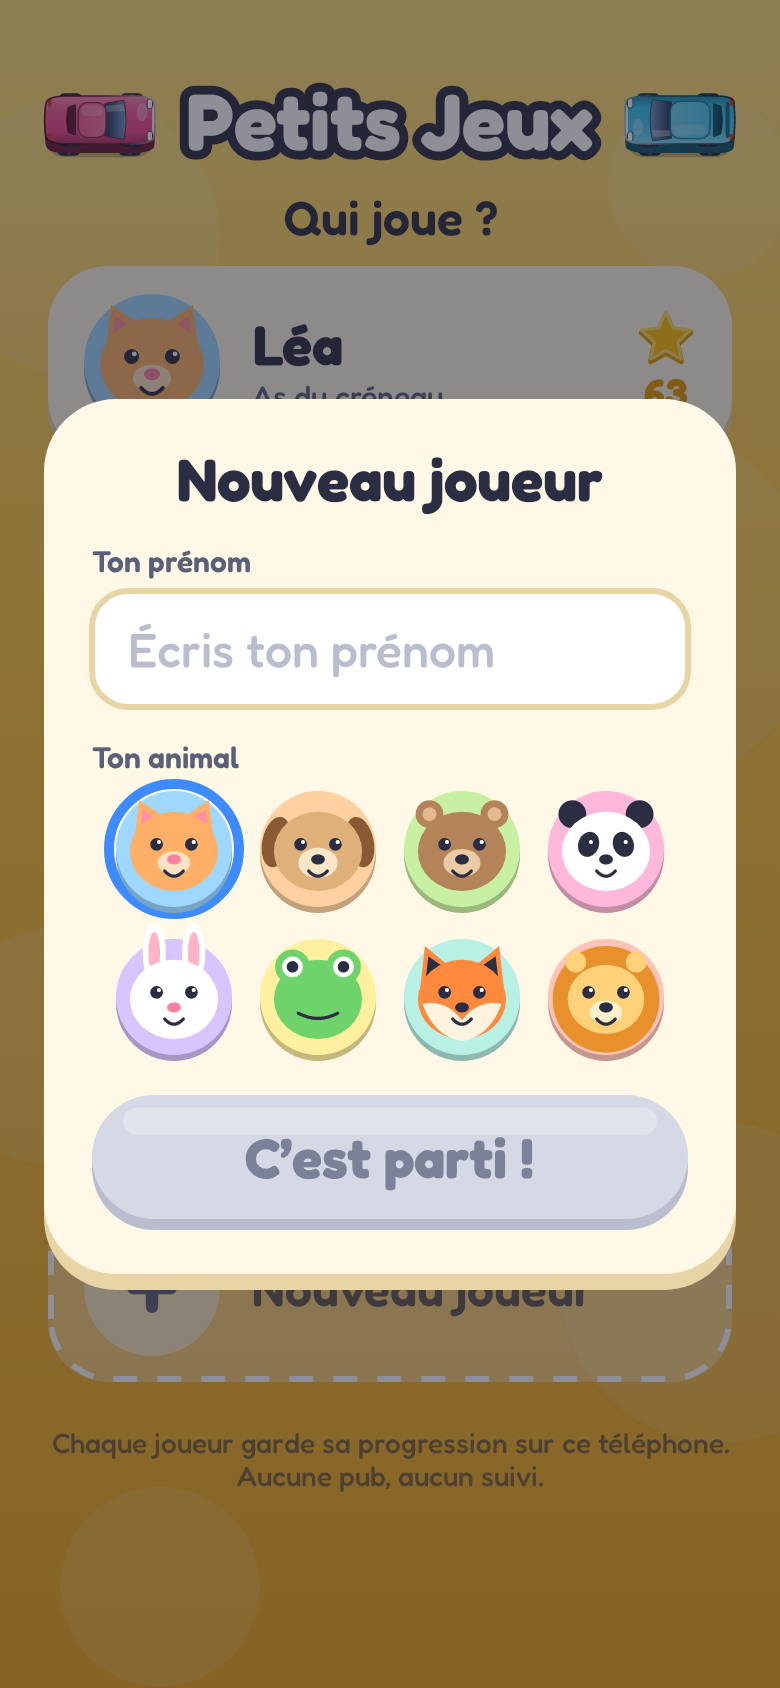
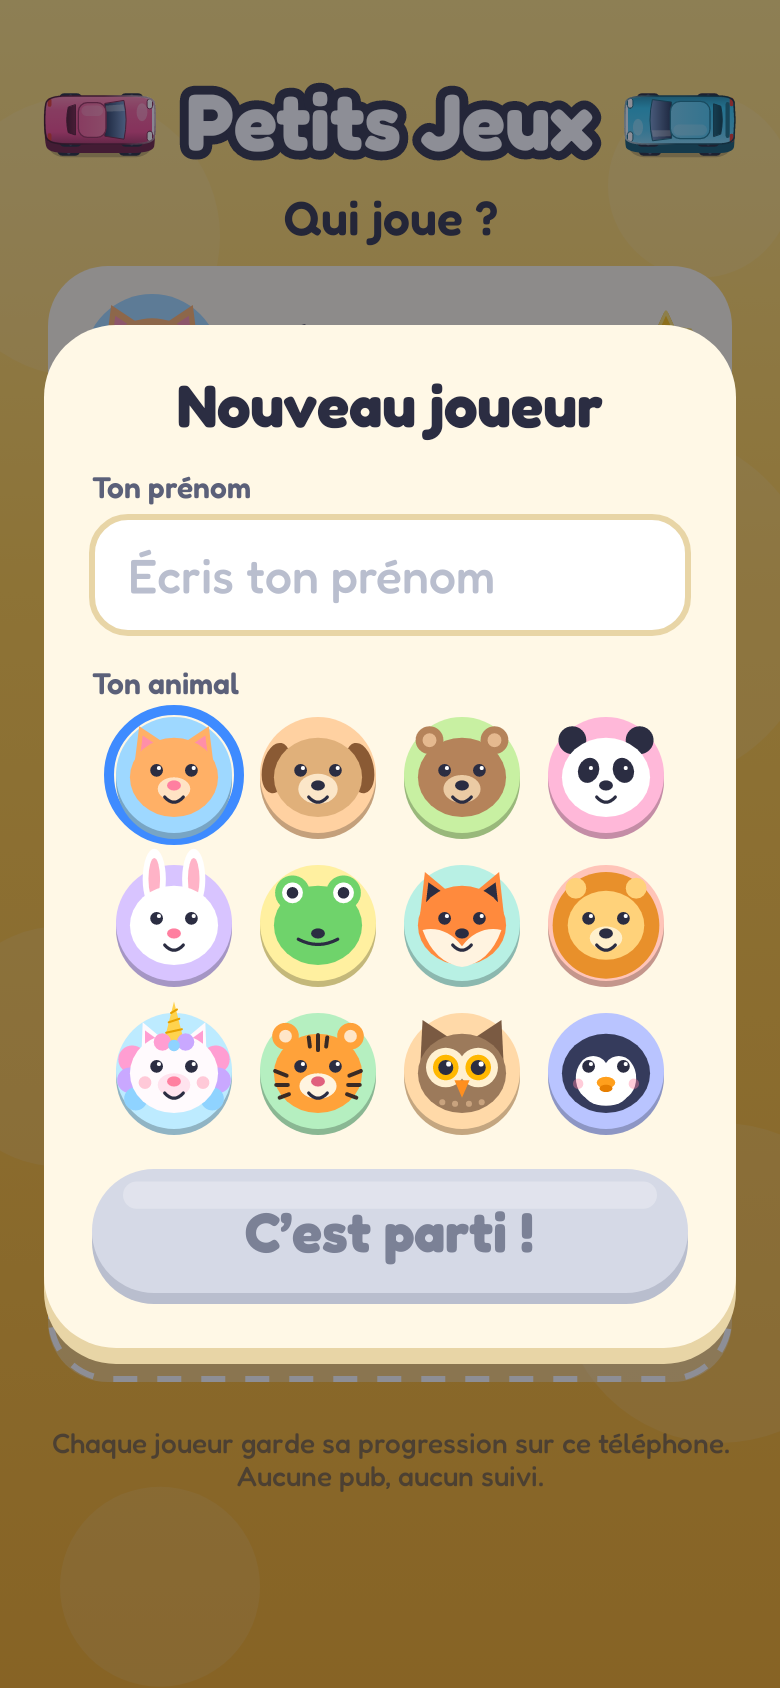
feat: quatre nouveaux animaux à la création d'un joueur (licorne, tigre, hibou, pingouin)
Le choix passe de 8 à 12 animaux, dessinés par le code comme les autres. Les
identifiants des anciens animaux ne changent pas (les sauvegardes existantes
restent valables) ; les nouveaux s'écrivent « licorne », « tigre », « hibou »
et « pingouin ». Les animaux se choisissent aussi au lecteur d'écran (nom +
état choisi).

diff --git a/android/app/src/main/java/com/kcharignon/petitsjeux/core/ui/Avatars.kt b/android/app/src/main/java/com/kcharignon/petitsjeux/core/ui/Avatars.kt
@@ -7,6 +7,10 @@ import androidx.compose.foundation.layout.size
 import androidx.compose.runtime.Composable
 import androidx.compose.runtime.remember
 import androidx.compose.ui.Modifier
+import androidx.compose.ui.platform.testTag
+import androidx.compose.ui.semantics.contentDescription
+import androidx.compose.ui.semantics.selected
+import androidx.compose.ui.semantics.semantics
 import androidx.compose.ui.geometry.CornerRadius
 import androidx.compose.ui.geometry.Offset
 import androidx.compose.ui.geometry.Rect
@@ -33,9 +37,13 @@ private fun background(avatar: Avatar): Color = when (avatar) {
     Avatar.FROG -> Color(0xFFFFF0A0)
     Avatar.FOX -> Color(0xFFB8F0E4)
     Avatar.LION -> Color(0xFFFFC4B8)
+    Avatar.UNICORN -> Color(0xFFBDEBFF)
+    Avatar.TIGER -> Color(0xFFB5EFC0)
+    Avatar.OWL -> Color(0xFFFFD9A8)
+    Avatar.PENGUIN -> Color(0xFFB9C4FF)
 }
 
-/** Le visage rond d'un animal, dessiné par le code (docs/design : `avatar()` de tools/design/ds.js). */
+/** Le visage rond d'un animal, dessiné par le code (les huit premiers sont aussi dans les maquettes : `avatar()` de tools/design/ds.js). */
 @Composable
 fun AvatarFace(avatar: Avatar, size: Dp, modifier: Modifier = Modifier) {
     Canvas(modifier.size(size)) { drawAvatar(avatar, center, this.size.minDimension / 2f) }
@@ -47,6 +55,8 @@ fun AvatarChoice(avatar: Avatar, selected: Boolean, onClick: () -> Unit, size: D
     androidx.compose.foundation.layout.Box(
         modifier
             .size(size + 12.dp)
+            .testTag("avatar-${avatar.id}")
+            .semantics { this.selected = selected; contentDescription = avatar.id }
             .clickable(interactionSource = remember { MutableInteractionSource() }, indication = null, onClick = onClick),
         contentAlignment = androidx.compose.ui.Alignment.Center,
     ) {
@@ -76,8 +86,14 @@ fun DrawScope.drawAvatar(avatar: Avatar, c: Offset, r: Float) {
     var faceFill = Color(0xFFFFB066)
     val earsOutside: () -> Unit
     var snout: (() -> Unit)? = null
+    var overlay: (() -> Unit)? = null
+    var noseColor = Dark
+    var plainEyes = true
+    var plainNose = true
+    var plainMouth = true
     when (avatar) {
         Avatar.CAT -> {
+            noseColor = Color(0xFFFF7FA0)
             earsOutside = {
                 tri(faceFill, p(-34f, -10f), p(-30f, -42f), p(-6f, -26f))
                 tri(faceFill, p(34f, -10f), p(30f, -42f), p(6f, -26f))
@@ -108,6 +124,7 @@ fun DrawScope.drawAvatar(avatar: Avatar, c: Offset, r: Float) {
         }
         Avatar.RABBIT -> {
             faceFill = Color.White
+            noseColor = Color(0xFFFF7FA0)
             earsOutside = {
                 oval(Color.White, -17f, -38f, 10f, 26f); oval(Color.White, 17f, -38f, 10f, 26f)
                 oval(Color(0xFFFFB3C7), -17f, -38f, 5f, 18f); oval(Color(0xFFFFB3C7), 17f, -38f, 5f, 18f)
@@ -147,6 +164,91 @@ fun DrawScope.drawAvatar(avatar: Avatar, c: Offset, r: Float) {
             }
             snout = { oval(Color(0xFFFFF0CC), 0f, 13f, 14f, 10f) }
         }
+        Avatar.UNICORN -> {
+            faceFill = Color(0xFFFFFAFD)
+            val pink = Color(0xFFFF9ED2)
+            val lilac = Color(0xFFC9A8FF)
+            val sky = Color(0xFF8FD3FF)
+            earsOutside = {
+                // la crinière, de chaque côté de la tête
+                for (side in listOf(-1f, 1f)) {
+                    circle(pink, side * 36f, -10f, 12f)
+                    circle(lilac, side * 38f, 8f, 11f)
+                    circle(sky, side * 33f, 24f, 10f)
+                }
+                for (side in listOf(-1f, 1f)) {
+                    tri(faceFill, p(side * 28f, -16f), p(side * 27f, -42f), p(side * 9f, -27f))
+                    tri(pink, p(side * 25f, -20f), p(side * 25f, -35f), p(side * 14f, -27f))
+                }
+            }
+            snout = { oval(Color(0xFFFFE3EE), 0f, 12f, 14f, 10f) }
+            noseColor = Color(0xFFFF7FA0)
+            overlay = {
+                // la corne dorée, rayée, et la mèche qui retombe devant
+                val horn = Color(0xFFFFD34E)
+                tri(horn, p(-9f, -24f), p(0f, -60f), p(9f, -24f))
+                for (y in listOf(-33f, -42f, -50f)) {
+                    val half = 9f * (y + 60f) / 36f
+                    drawLine(Color(0xFFE8A200), p(-half, y), p(half, y - 3f), strokeWidth = 1.8f * u, cap = StrokeCap.Round)
+                }
+                circle(pink, -10f, -25f, 7.5f); circle(lilac, 10f, -25f, 7.5f); circle(sky, 0f, -22f, 5f)
+                circle(Color(0x66FF7FA0), -25f, 10f, 5.5f); circle(Color(0x66FF7FA0), 25f, 10f, 5.5f)
+            }
+        }
+        Avatar.TIGER -> {
+            faceFill = Color(0xFFFFA23A)
+            earsOutside = {
+                circle(faceFill, -28f, -30f, 11.5f); circle(faceFill, 28f, -30f, 11.5f)
+                circle(Color(0xFFFFE6C8), -28f, -30f, 5.5f); circle(Color(0xFFFFE6C8), 28f, -30f, 5.5f)
+            }
+            snout = { oval(Color(0xFFFFF4E0), 0f, 13f, 16f, 11f) }
+            noseColor = Color(0xFFE0607E)
+            overlay = {
+                // les rayures : front et joues
+                val stripe = Color(0xFF3A2A25)
+                val w = 3.4f * u
+                drawLine(stripe, p(0f, -31f), p(0f, -18f), w, StrokeCap.Round)
+                drawLine(stripe, p(-8f, -29f), p(-7f, -21f), w, StrokeCap.Round)
+                drawLine(stripe, p(8f, -29f), p(7f, -21f), w, StrokeCap.Round)
+                for (side in listOf(-1f, 1f)) {
+                    drawLine(stripe, p(side * 37f, 0f), p(side * 27f, 4f), w, StrokeCap.Round)
+                    drawLine(stripe, p(side * 36f, 12f), p(side * 26f, 12f), w, StrokeCap.Round)
+                    drawLine(stripe, p(side * 33f, 23f), p(side * 25f, 20f), w, StrokeCap.Round)
+                }
+            }
+        }
+        Avatar.OWL -> {
+            faceFill = Color(0xFF9C7A5B)
+            earsOutside = {
+                // les aigrettes du hibou
+                tri(Color(0xFF7A5A42), p(-36f, -4f), p(-34f, -44f), p(-10f, -28f))
+                tri(Color(0xFF7A5A42), p(36f, -4f), p(34f, -44f), p(10f, -28f))
+            }
+            plainEyes = false; plainNose = false; plainMouth = false
+            overlay = {
+                // les deux disques clairs autour des yeux, les gros yeux ronds, le bec
+                circle(Color(0xFFFFF0D0), -14f, -3f, 17f); circle(Color(0xFFFFF0D0), 14f, -3f, 17f)
+                circle(Color(0xFFFFB800), -14f, -3f, 11f); circle(Color(0xFFFFB800), 14f, -3f, 11f)
+                circle(Dark, -14f, -3f, 6.5f); circle(Dark, 14f, -3f, 6.5f)
+                circle(Color.White, -11.5f, -6f, 2.2f); circle(Color.White, 16.5f, -6f, 2.2f)
+                tri(Color(0xFFFF8F1F), p(-6.5f, 8f), p(6.5f, 8f), p(0f, 23f))
+                for (x in listOf(-17f, -6f, 6f, 17f)) circle(Color(0xFFC9A37E), x, 29f - kotlin.math.abs(x) * 0.12f, 2.6f)
+            }
+        }
+        Avatar.PENGUIN -> {
+            faceFill = Color(0xFF353B5C)
+            earsOutside = {}
+            snout = {
+                // le masque blanc : deux joues et un menton
+                oval(Color.White, -11f, 6f, 15f, 19f); oval(Color.White, 11f, 6f, 15f, 19f); oval(Color.White, 0f, 17f, 20f, 13f)
+            }
+            plainNose = false; plainMouth = false
+            overlay = {
+                oval(Color(0xFFFF9F1C), 0f, 10f, 8f, 5f)
+                oval(Color(0xFFE67E00), 0f, 15f, 5.6f, 3.2f)
+                circle(Color(0x66FF7FA0), -24f, 11f, 4.5f); circle(Color(0x66FF7FA0), 24f, 11f, 4.5f)
+            }
+        }
     }
     earsOutside()
     val faceR = if (avatar == Avatar.LION) 33f else 38f
@@ -156,17 +258,18 @@ fun DrawScope.drawAvatar(avatar: Avatar, c: Offset, r: Float) {
         tilted(20f, -15f, -4f) { oval(Dark, -15f, -4f, 9f, 11f) }
         tilted(-20f, 15f, -4f) { oval(Dark, 15f, -4f, 9f, 11f) }
     }
+    overlay?.invoke()
     if (avatar == Avatar.FROG) {
         circle(Color.White, -22f, -26f, 9f); circle(Color.White, 22f, -26f, 9f)
         circle(Dark, -22f, -26f, 5f); circle(Dark, 22f, -26f, 5f)
-    } else {
+    } else if (plainEyes) {
         circle(Dark, -15f, -4f, 5.5f); circle(Dark, 15f, -4f, 5.5f)
         circle(Color.White, -13f, -6f, 1.8f); circle(Color.White, 17f, -6f, 1.8f)
-        oval(if (avatar == Avatar.CAT || avatar == Avatar.RABBIT) Color(0xFFFF7FA0) else Dark, 0f, 9f, 6f, 4.4f)
     }
+    if (plainNose) oval(noseColor, 0f, 9f, 6f, 4.4f)
     val mouthY = if (avatar == Avatar.FROG) 14f else 19f
     val mouthW = if (avatar == Avatar.FROG) 17f else 8f
-    drawPath(
+    if (plainMouth) drawPath(
         Path().apply {
             moveTo(p(-mouthW, mouthY).x, p(-mouthW, mouthY).y)
             quadraticTo(c.x, p(0f, mouthY + 9f).y, p(mouthW, mouthY).x, p(mouthW, mouthY).y)

diff --git a/android/app/src/test/java/com/kcharignon/petitsjeux/screenshots/ScreenshotsTest.kt b/android/app/src/test/java/com/kcharignon/petitsjeux/screenshots/ScreenshotsTest.kt
@@ -1,6 +1,19 @@
 package com.kcharignon.petitsjeux.screenshots
 
 import androidx.activity.ComponentActivity
+import androidx.compose.foundation.background
+import androidx.compose.foundation.layout.Arrangement
+import androidx.compose.foundation.layout.Column
+import androidx.compose.foundation.layout.Row
+import androidx.compose.foundation.layout.padding
+import androidx.compose.ui.Modifier
+import androidx.compose.ui.graphics.Color
+import androidx.compose.ui.test.assertIsNotSelected
+import androidx.compose.ui.test.assertIsSelected
+import androidx.compose.ui.test.hasSetTextAction
+import androidx.compose.ui.test.performTextInput
+import androidx.compose.ui.unit.dp
+import com.kcharignon.petitsjeux.core.ui.AvatarFace
 import java.io.File
 import androidx.compose.runtime.Composable
 import androidx.compose.ui.geometry.Offset
@@ -91,6 +104,34 @@ class ScreenshotsTest {
     @Test
     fun newPlayer() = show("02-nouveau-joueur") {
         ProfilesScreen(profiles = three + listOf(null, null), onPlay = {}, onCreate = { _, _, _ -> }, initialCreating = 3)
+    }
+
+    @Test
+    fun allTheAnimals() = show("34-animaux") {
+        Column(Modifier.background(Color(0xFFFFF8E7)).padding(16.dp), verticalArrangement = Arrangement.spacedBy(12.dp)) {
+            for (row in Avatar.entries.chunked(4)) Row(horizontalArrangement = Arrangement.spacedBy(12.dp)) { for (a in row) AvatarFace(a, 78.dp) }
+        }
+    }
+
+    @Test
+    fun aNewPlayerCanPickEveryAnimal() {
+        var created: Triple<Int, String, Avatar>? = null
+        show(null) { ProfilesScreen(profiles = three + listOf(null, null), onPlay = {}, onCreate = { s, n, a -> created = Triple(s, n, a) }, initialCreating = 3) }
+        rule.onNode(hasSetTextAction()).performTextInput("Zoé")
+        rule.mainClock.advanceTimeBy(100)
+        for (animal in Avatar.entries) {
+            rule.onNodeWithTag("avatar-${animal.id}").performClick()
+            rule.mainClock.advanceTimeBy(100)
+            for (other in Avatar.entries) {
+                val node = rule.onNodeWithTag("avatar-${other.id}")
+                if (other == animal) node.assertIsSelected() else node.assertIsNotSelected()
+            }
+        }
+        // le dernier animal choisi (le pingouin) est celui du nouveau joueur
+        rule.onNodeWithText("C’est parti !").performClick()
+        rule.mainClock.advanceTimeBy(100)
+        assertEquals(Triple(3, "Zoé", Avatar.entries.last()), created)
+        assertEquals(Avatar.PENGUIN, Avatar.entries.last())
     }
 
     @Test

diff --git a/android/app/src/test/java/com/kcharignon/petitsjeux/core/save/ProfileStoreTest.kt b/android/app/src/test/java/com/kcharignon/petitsjeux/core/save/ProfileStoreTest.kt
@@ -48,6 +48,17 @@ class ProfileStoreTest {
     }
 
     @Test
+    fun everyAnimalSurvivesASaveAndALoad() {
+        val store = store()
+        for ((i, avatar) in Avatar.entries.withIndex()) {
+            store.save(Profile.create(i % Profile.SLOTS, "Joueur", avatar, now = 1L)!!)
+            assertEquals(avatar, FileProfileStore(File(tmp.root, "saves")).load(i % Profile.SLOTS)!!.avatar)
+        }
+        assertEquals(12, Avatar.entries.size)
+        assertEquals("tous les identifiants sont différents", 12, Avatar.entries.map { it.id }.toSet().size)
+    }
+
+    @Test
     fun theFivePlayersAreIndependent() {
         val store = store()
         for (slot in 0 until Profile.SLOTS) {
@@ -141,7 +152,7 @@ class ProfileStoreTest {
     fun avatarIdsAreStable() {
         // Ces identifiants sont écrits dans les sauvegardes : ils ne doivent jamais changer.
         assertEquals(
-            listOf("chat", "chien", "ours", "panda", "lapin", "grenouille", "renard", "lion"),
+            listOf("chat", "chien", "ours", "panda", "lapin", "grenouille", "renard", "lion", "licorne", "tigre", "hibou", "pingouin"),
             Avatar.entries.map { it.id },
         )
     }

diff --git a/android/app/src/main/java/com/kcharignon/petitsjeux/core/save/Profile.kt b/android/app/src/main/java/com/kcharignon/petitsjeux/core/save/Profile.kt
@@ -11,7 +11,11 @@ enum class Avatar(val id: String) {
     RABBIT("lapin"),
     FROG("grenouille"),
     FOX("renard"),
-    LION("lion");
+    LION("lion"),
+    UNICORN("licorne"),
+    TIGER("tigre"),
+    OWL("hibou"),
+    PENGUIN("pingouin");
 
     companion object {
         fun fromId(id: String?): Avatar = entries.firstOrNull { it.id == id } ?: CAT

diff --git a/docs/DESIGN.md b/docs/DESIGN.md
@@ -241,7 +241,7 @@ Le moteur (`games/road/engine`) est du Kotlin pur piloté par une horloge en mil
 | 696 | Super champion (toutes les étoiles de tous les jeux : 540 + 12 + 144) |
 
 - Statistiques gardées : voitures sorties, fautes, niveaux réussis, plus haut niveau atteint.
-- Le choix du **joueur** : un prénom (12 caractères) et un **animal** parmi 8 (chat, chien, ours, panda, lapin, grenouille, renard, lion), dessinés par le code.
+- Le choix du **joueur** : un prénom (12 caractères) et un **animal** parmi 12 (chat, chien, ours, panda, lapin, grenouille, renard, lion, licorne, tigre, hibou, pingouin), dessinés par le code.
 
 ## Sauvegarde locale
 
